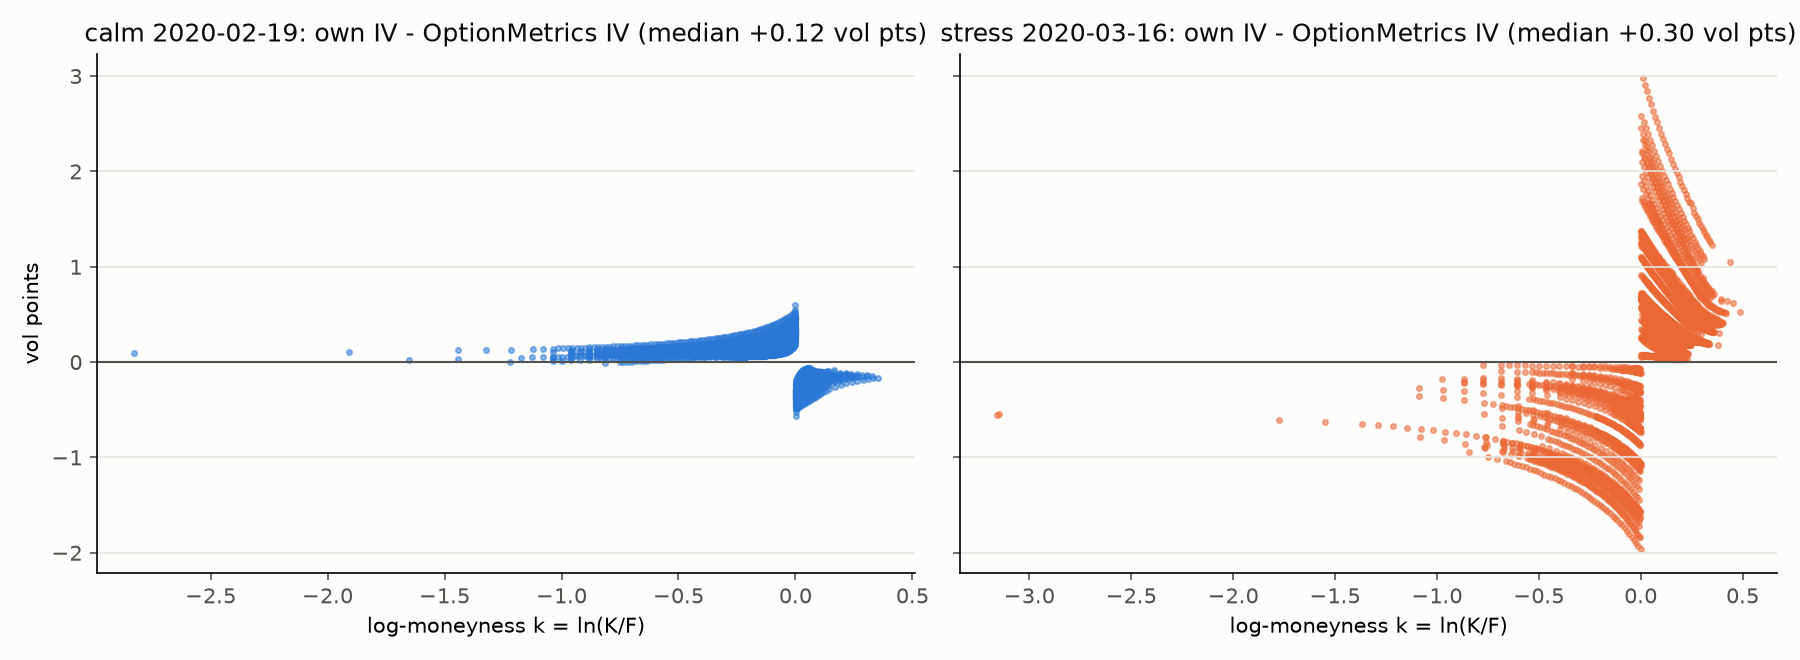
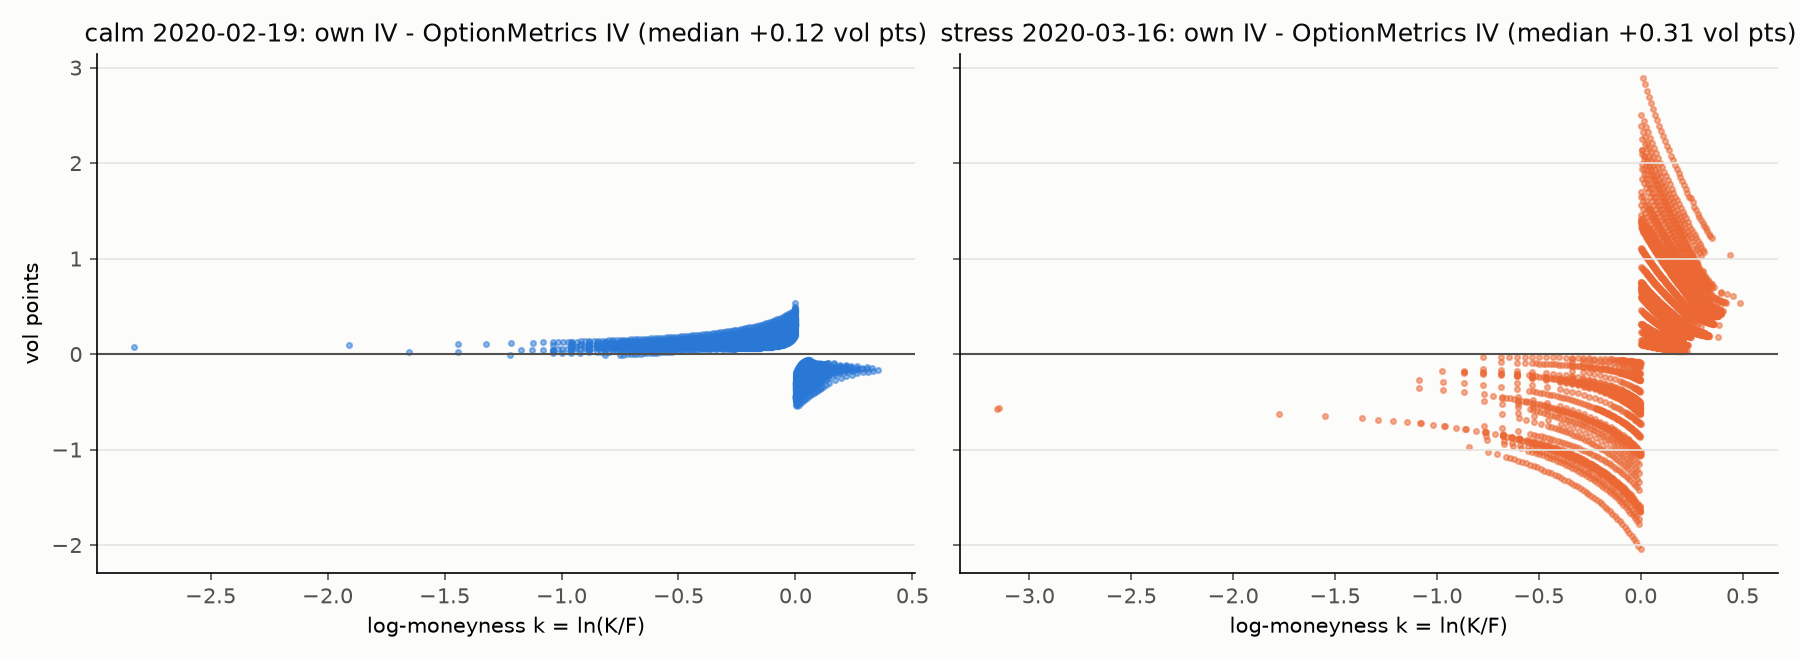
Use zero-curve discount factor; forward from parity at fixed D, regression kept as check

diff --git a/src/spxvol/clean.py b/src/spxvol/clean.py
@@ -34,19 +34,25 @@ def zero_rate(zero_curve: pd.DataFrame, T) -> np.ndarray:
 
 
 def forwards(q: pd.DataFrame, spot: float, zero_curve: pd.DataFrame, div_yield: float) -> pd.DataFrame:
-    """Per expiry: F and D from C - P = D (F - K) by regression, plus the zero-curve / dividend benchmarks."""
+    """Per expiry: D from the zero curve and F from put-call parity, C - P = D (F - K), at that D.
+
+    Also returns the joint regression estimates (F_reg, D_reg: slope = -D, intercept = D F) and the
+    dividend-yield benchmark F_div = S exp((r - q) T) as cross-checks. D is poorly identified by the
+    regression at short maturities, which is why the pipeline fixes it from the zero curve.
+    """
     rows = []
     for exdate, g in q.groupby("exdate"):
         piv = g.pivot(index="strike", columns="cp", values="mid").dropna()
         piv = piv[abs(piv.index / spot - 1) <= PARITY_BAND]
         if len(piv) < 3:
             continue
+        T = g["T"].iloc[0]
+        D = float(np.exp(-zero_rate(zero_curve, T) * T))
         slope, intercept = np.polyfit(piv.index, piv.C - piv.P, 1)
-        rows.append(dict(exdate=exdate, T=g["T"].iloc[0], n_pairs=len(piv), F=-intercept / slope, D=-slope))
+        rows.append(dict(exdate=exdate, T=T, n_pairs=len(piv), D=D, F=(piv.index + (piv.C - piv.P) / D).mean(),
+                         F_reg=-intercept / slope, D_reg=-slope))
     f = pd.DataFrame(rows)
-    r = zero_rate(zero_curve, f["T"])
-    f["D_zero"] = np.exp(-r * f["T"])
-    f["F_div"] = spot * np.exp((r - div_yield / 100) * f["T"])
+    f["F_div"] = spot * np.exp((zero_rate(zero_curve, f["T"]) - div_yield / 100) * f["T"])
     return f
 
 

diff --git a/scripts/build.py b/scripts/build.py
@@ -52,10 +52,10 @@ def step1():
         f, c = r["f"], COLOR[label]
         ax1.plot(f["T"], 100 * (f.F / r["spot"] - 1), "o-", color=c, lw=2, ms=4, label=f"{label}: put-call parity")
         ax1.plot(f["T"], 100 * (f.F_div / r["spot"] - 1), "--", color=c, lw=1.5, label=f"{label}: S exp((r-q)T), OptionMetrics q")
-        ax2.plot(f["T"], -100 * np.log(f.D) / f["T"], "o-", color=c, lw=2, ms=4, label=f"{label}: parity-implied")
-        ax2.plot(f["T"], -100 * np.log(f.D_zero) / f["T"], "--", color=c, lw=1.5, label=f"{label}: zero curve")
+        ax2.plot(f["T"], -100 * np.log(f.D_reg) / f["T"], "o-", color=c, lw=2, ms=4, label=f"{label}: parity regression")
+        ax2.plot(f["T"], -100 * np.log(f.D) / f["T"], "--", color=c, lw=1.5, label=f"{label}: zero curve (used)")
     ax1.set(xlabel="T (years)", ylabel="F / S - 1  (%)", title="Forward from put-call parity vs dividend-yield benchmark")
-    ax2.set(xlabel="T (years)", ylabel="rate (%)", ylim=(-2, 4), title="Discount rate from parity vs zero curve")
+    ax2.set(xlabel="T (years)", ylabel="rate (%)", ylim=(-2, 4), title="Discount rate: parity regression check vs zero curve")
     ax1.legend(frameon=False, fontsize=8)
     ax2.legend(frameon=False, fontsize=8)
     save(fig, "step1_forwards.png")
